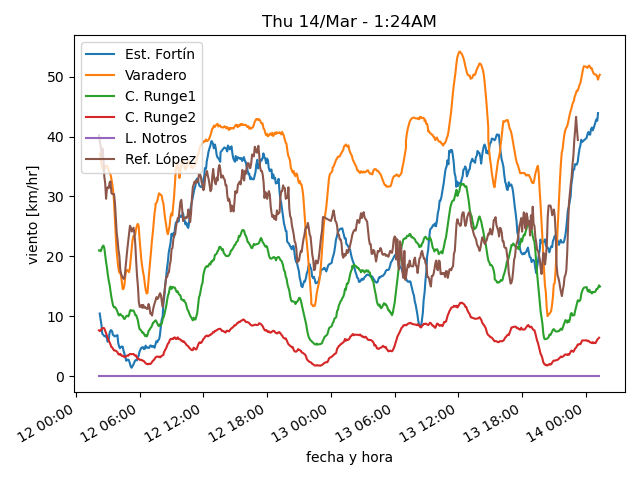
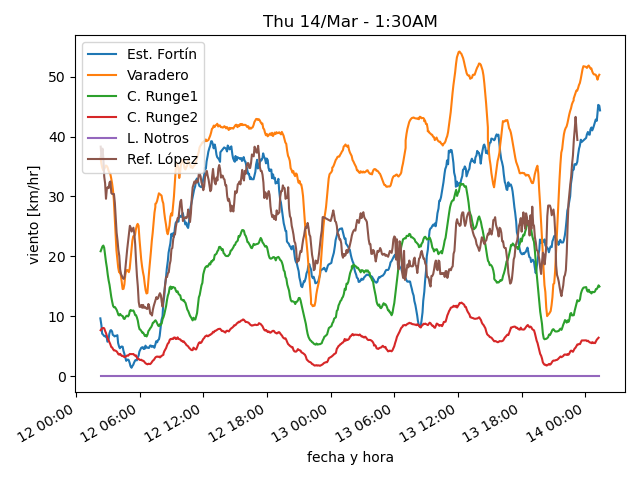
actualiza datos

diff --git a/estaciones/estacion1.html b/estaciones/estacion1.html
@@ -18,12 +18,12 @@
     </tr>
     <tr>
      <td class="stats_data">
-      1:08AM
+      1:23AM
      </td>
     </tr>
     <tr>
      <td class="stats_data">
-      8.7
+      8.8
      </td>
     </tr>
     <tr>
@@ -33,7 +33,7 @@
     </tr>
     <tr>
      <td class="stats_data">
-      72.5
+      72.0
      </td>
     </tr>
     <tr>
@@ -43,7 +43,7 @@
     </tr>
     <tr>
      <td class="stats_data">
-      24.1/42.6 W
+      18.6/41.0 NNW
      </td>
     </tr>
     <tr>
